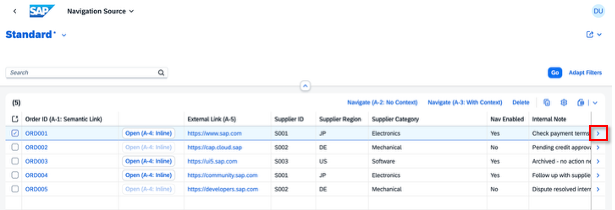
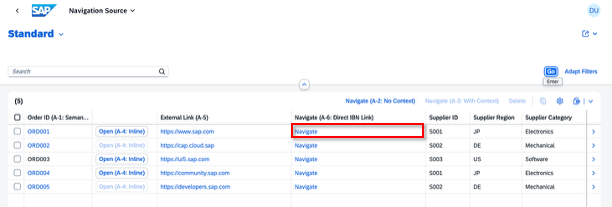
Add A-6 DataFieldWithIntentBasedNavigation pattern, renumber old A-6 to A-7

diff --git a/test/nav-service.test.js b/test/nav-service.test.js
@@ -62,6 +62,18 @@ describe('NavigationTargetService', () => {
   })
 })
 
+describe('Group A Annotation Structure', () => {
+  const { GET } = cds.test(__dirname + '/..')
+
+  it('metadataShouldContainDataFieldWithIntentBasedNavigation', async () => {
+    const { data } = await GET('/odata/v4/navigation-source/$metadata')
+    assert.ok(
+      data.includes('DataFieldWithIntentBasedNavigation'),
+      'DataFieldWithIntentBasedNavigation annotation must be present in $metadata'
+    )
+  })
+})
+
 describe('Group B Annotation Structure', () => {
   const { GET } = cds.test(__dirname + '/..')
 

diff --git a/readme.md b/readme.md
@@ -139,11 +139,34 @@ A table column whose cell value is rendered as a hyperlink to an external URL. O
 
 ---
 
-### A-6: Replace Row-Click Navigation
+### A-6: Direct IBN Link
+
+A table column where each cell is rendered as a hyperlink that navigates **directly** to a specific `SemanticObject + Action` — no popover.
+
+This contrasts with A-1 (`@Common.SemanticObject`), which triggers FLP intent resolution and shows a popover listing all registered inbound targets. `DataFieldWithIntentBasedNavigation` skips the popover and navigates immediately to the declared target.
+
+![A-6: Direct IBN Link](docs/images/A-6.png)
+
+**Implementation** — `app/nav-source/annotations.cds`:
+```cds
+{
+    $Type         : 'UI.DataFieldWithIntentBasedNavigation',
+    Label         : 'Navigate (A-6: Direct IBN Link)',
+    Value         : 'Navigate',
+    SemanticObject: 'NavTarget',
+    Action        : 'display',
+},
+```
+
+**What to verify:** A "Navigate (A-6: Direct IBN Link)" column appears with each cell showing "Navigate" as a blue hyperlink. Clicking it navigates directly to the Navigation Target app — no popover appears. Compare with A-1: clicking `orderId` shows a popover with two options first.
+
+---
+
+### A-7: Replace Row-Click Navigation
 
 By default, clicking a row navigates to the Object Page. This pattern replaces that behavior so the row click (chevron) navigates to an external app instead.
 
-![A-6: Replace Row-Click Navigation](docs/images/A-6.png)
+![A-7: Replace Row-Click Navigation](docs/images/A-7.png)
 
 **Implementation** — `app/nav-source/webapp/manifest.json`:
 ```json
@@ -452,8 +475,8 @@ srv/
   service.cds             — NavigationSourceService, NavigationTargetService
 
 app/nav-source/
-  annotations.cds         — A-1 through A-5 annotations, B-1/B-3/B-4 context annotations, SemanticObjectUnavailableActions
-  webapp/manifest.json    — A-6, crossNavigation.outbounds, FLP inbound
+  annotations.cds         — A-1 through A-6 annotations, B-1/B-3/B-4 context annotations, SemanticObjectUnavailableActions
+  webapp/manifest.json    — A-7, crossNavigation.outbounds, FLP inbound
 
 app/nav-target/
   annotations.cds         — SelectionFields for filter bar population
